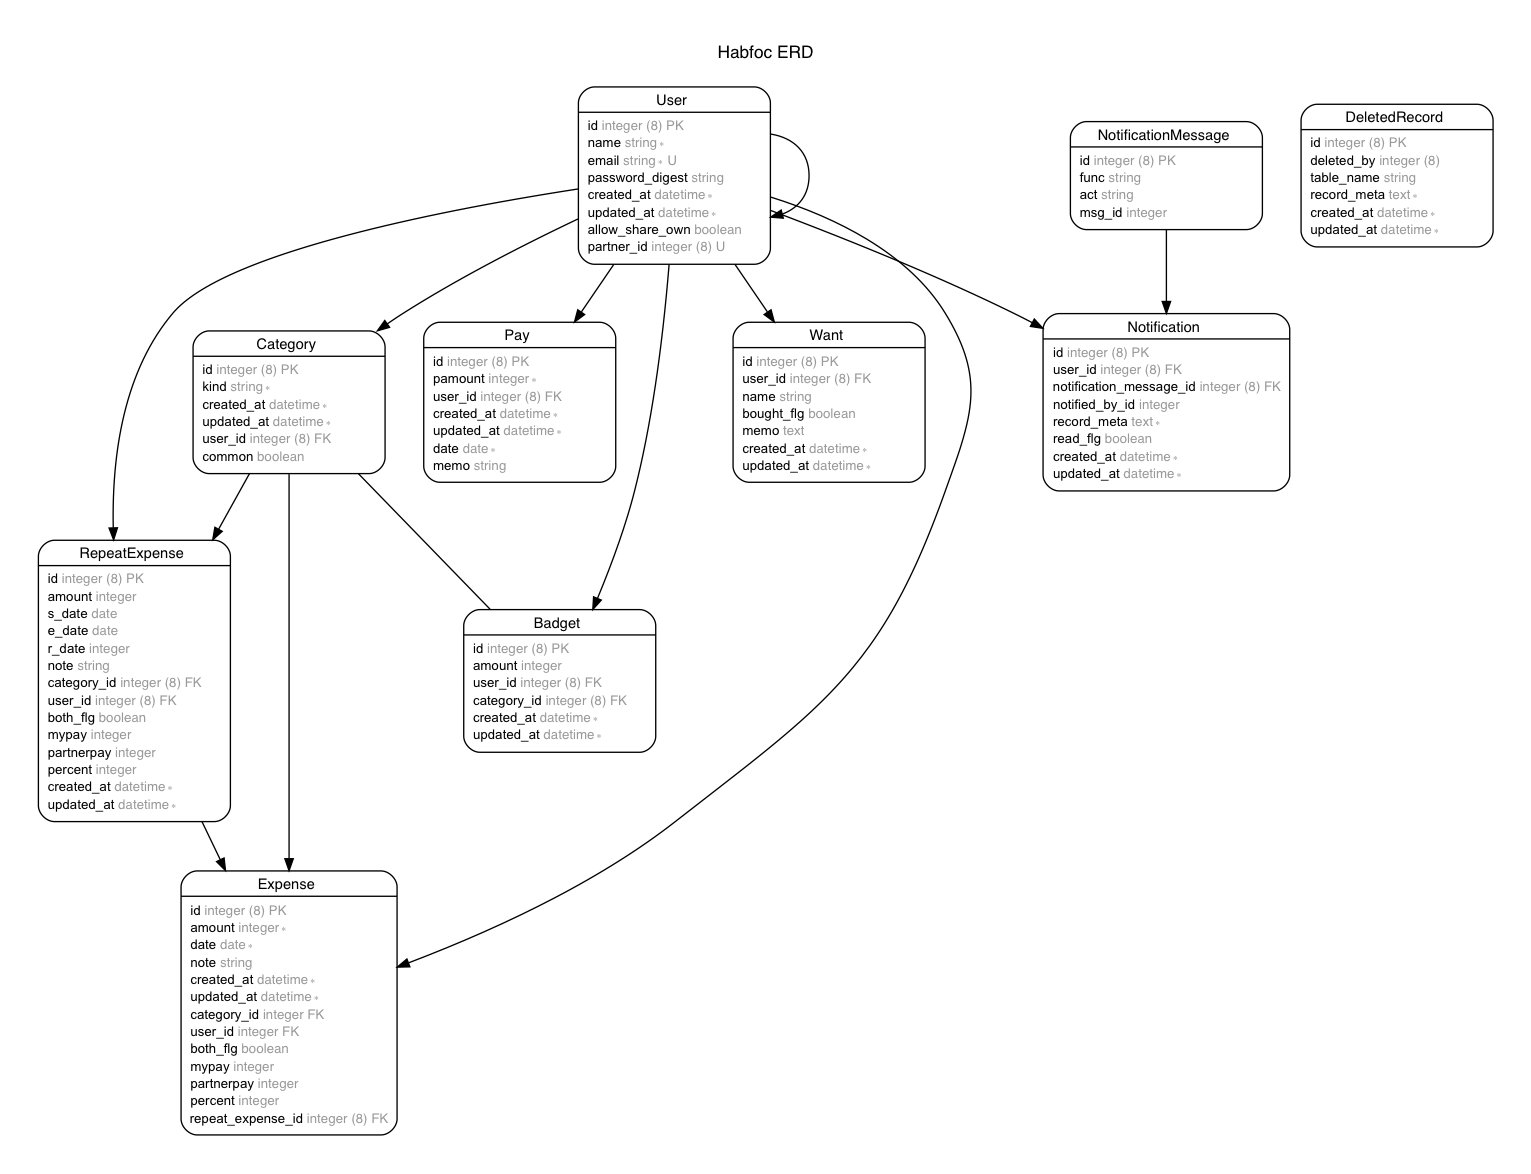
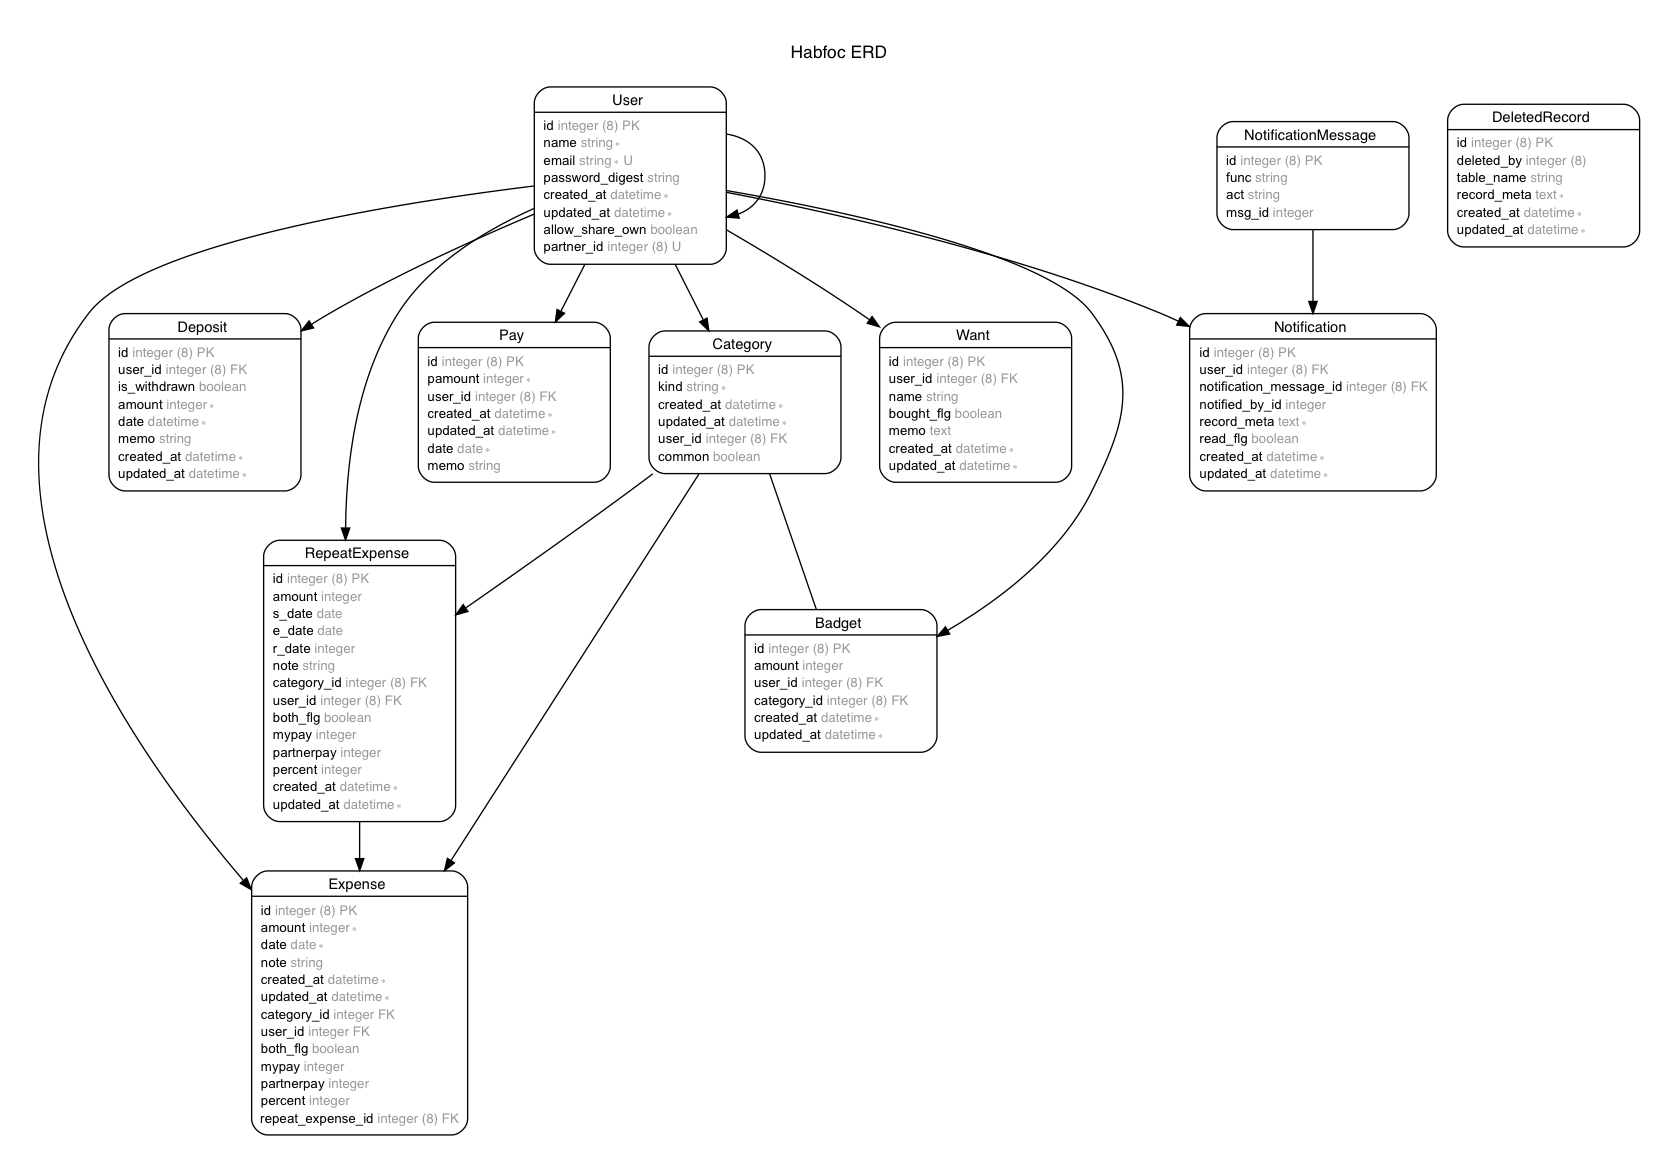
add deposits function

diff --git a/app/controllers/expenses_controller.rb b/app/controllers/expenses_controller.rb
@@ -42,7 +42,7 @@ class ExpensesController < ApplicationController
   def create
     @expense = Expense.new(expense_params)
     if @expense.save
-      redirect_to expenses_path, notice: "出費を保存しました。#{@category.kind}: #{@expense.amount}円"
+      redirect_to expenses_path, notice: "出費を保存しました。#{@category.kind}: #{@expense.amount.to_s(:delimited)}円"
     else
       set_expenses_categories
       render 'index'
@@ -79,41 +79,41 @@ class ExpensesController < ApplicationController
   end
 
   private
-    def mypay_amount
-      whole_payment = params[:expense][:amount].to_i
-      case params[:expense][:percent].to_i
-      when 1
-        mypay = (whole_payment / 2).round
-      when 2
-        mypay = (whole_payment / 3).round
-      when 3
-        mypay = (whole_payment * 2 / 3).round
-      when 4
-        mypay = 0
-      end
-      return mypay
+  def mypay_amount
+    whole_payment = params[:expense][:amount].to_i
+    case params[:expense][:percent].to_i
+    when 1
+      mypay = (whole_payment / 2).round
+    when 2
+      mypay = (whole_payment / 3).round
+    when 3
+      mypay = (whole_payment * 2 / 3).round
+    when 4
+      mypay = 0
     end
+    return mypay
+  end
 
-    def expense_params
-      if params[:expense][:both_flg] == "true" && params[:expense][:percent] == "false"
-        params.require(:expense).permit(:amount, :date, :note, :category_id, :both_flg, :mypay, :partnerpay).merge(user_id: current_user.id, percent: nil, repeat_expense_id: nil)
-      elsif params[:expense][:both_flg] == "true"
-        partnerpay = params[:expense][:amount].to_i - mypay_amount
-        params.require(:expense).permit(:amount, :date, :note, :category_id, :both_flg, :percent).merge(user_id: current_user.id, mypay: mypay_amount, partnerpay: partnerpay, repeat_expense_id: nil)
-      else
-        params.require(:expense).permit(:amount, :date, :note, :category_id, :both_flg, :percent).merge(user_id: current_user.id, repeat_expense_id: nil)
-      end
+  def expense_params
+    if params[:expense][:both_flg] == "true" && params[:expense][:percent] == "false"
+      params.require(:expense).permit(:amount, :date, :note, :category_id, :both_flg, :mypay, :partnerpay).merge(user_id: current_user.id, percent: nil, repeat_expense_id: nil)
+    elsif params[:expense][:both_flg] == "true"
+      partnerpay = params[:expense][:amount].to_i - mypay_amount
+      params.require(:expense).permit(:amount, :date, :note, :category_id, :both_flg, :percent).merge(user_id: current_user.id, mypay: mypay_amount, partnerpay: partnerpay, repeat_expense_id: nil)
+    else
+      params.require(:expense).permit(:amount, :date, :note, :category_id, :both_flg, :percent).merge(user_id: current_user.id, repeat_expense_id: nil)
     end
+  end
 
-    def set_expenses_categories
-      @categories = current_user.categories.or(partner.categories.where(common: true))
-    end
+  def set_expenses_categories
+    @categories = current_user.categories.or(partner.categories.where(common: true))
+  end
 
-    def set_expense
-      @expense = Expense.find(params[:id])
-    end
+  def set_expense
+    @expense = Expense.find(params[:id])
+  end
 
-    def set_category
-      @category = Category.find(params[:expense][:category_id])
-    end
+  def set_category
+    @category = Category.find(params[:expense][:category_id])
+  end
 end

diff --git a/db/schema.rb b/db/schema.rb
@@ -10,7 +10,7 @@
 #
 # It's strongly recommended that you check this file into your version control system.
 
-ActiveRecord::Schema.define(version: 20180818135015) do
+ActiveRecord::Schema.define(version: 20180930033620) do
 
   # These are extensions that must be enabled in order to support this database
   enable_extension "plpgsql"
@@ -41,6 +41,17 @@ ActiveRecord::Schema.define(version: 20180818135015) do
     t.datetime "created_at", null: false
     t.datetime "updated_at", null: false
     t.index ["deleted_by"], name: "index_deleted_records_on_deleted_by"
+  end
+
+  create_table "deposits", force: :cascade do |t|
+    t.bigint "user_id"
+    t.boolean "is_withdrawn", default: false
+    t.integer "amount", null: false
+    t.datetime "date", null: false
+    t.string "memo"
+    t.datetime "created_at", null: false
+    t.datetime "updated_at", null: false
+    t.index ["user_id"], name: "index_deposits_on_user_id"
   end
 
   create_table "expenses", force: :cascade do |t|
@@ -132,6 +143,7 @@ ActiveRecord::Schema.define(version: 20180818135015) do
   add_foreign_key "badgets", "users"
   add_foreign_key "categories", "users"
   add_foreign_key "deleted_records", "users", column: "deleted_by"
+  add_foreign_key "deposits", "users"
   add_foreign_key "expenses", "repeat_expenses"
   add_foreign_key "notifications", "notification_messages"
   add_foreign_key "notifications", "users"

diff --git a/spec/factories/expenses.rb b/spec/factories/expenses.rb
@@ -1,0 +1,38 @@
+# ## Schema Information
+#
+# Table name: `expenses`
+#
+# ### Columns
+#
+# Name                     | Type               | Attributes
+# ------------------------ | ------------------ | ---------------------------
+# **`id`**                 | `bigint(8)`        | `not null, primary key`
+# **`amount`**             | `integer`          |
+# **`both_flg`**           | `boolean`          | `default(FALSE)`
+# **`date`**               | `date`             |
+# **`mypay`**              | `integer`          |
+# **`note`**               | `string`           |
+# **`partnerpay`**         | `integer`          |
+# **`percent`**            | `integer`          |
+# **`created_at`**         | `datetime`         | `not null`
+# **`updated_at`**         | `datetime`         | `not null`
+# **`category_id`**        | `integer`          |
+# **`repeat_expense_id`**  | `bigint(8)`        |
+# **`user_id`**            | `integer`          |
+#
+# ### Indexes
+#
+# * `index_expenses_on_repeat_expense_id`:
+#     * **`repeat_expense_id`**
+#
+# ### Foreign Keys
+#
+# * `fk_rails_...`:
+#     * **`repeat_expense_id => repeat_expenses.id`**
+#
+
+FactoryBot.define do
+  factory :expense do
+    
+  end
+end

diff --git a/app/models/deposit.rb b/app/models/deposit.rb
@@ -1,0 +1,38 @@
+# ## Schema Information
+#
+# Table name: `deposits`
+#
+# ### Columns
+#
+# Name                | Type               | Attributes
+# ------------------- | ------------------ | ---------------------------
+# **`id`**            | `bigint(8)`        | `not null, primary key`
+# **`amount`**        | `integer`          | `not null`
+# **`date`**          | `datetime`         | `not null`
+# **`is_withdrawn`**  | `boolean`          | `default(FALSE)`
+# **`memo`**          | `string`           |
+# **`created_at`**    | `datetime`         | `not null`
+# **`updated_at`**    | `datetime`         | `not null`
+# **`user_id`**       | `bigint(8)`        |
+#
+# ### Indexes
+#
+# * `index_deposits_on_user_id`:
+#     * **`user_id`**
+#
+# ### Foreign Keys
+#
+# * `fk_rails_...`:
+#     * **`user_id => users.id`**
+#
+
+class Deposit < ApplicationRecord
+  belongs_to :user
+  validates_presence_of :amount, :date
+  validates_length_of :amount, maximum: 10
+  validates_length_of :memo, maximum: 100
+
+  def self.total_amount
+    self.where.not(is_withdrawn: true).sum(:amount) - self.where(is_withdrawn: true).sum(:amount)
+  end
+end

diff --git a/app/controllers/deposits_controller.rb b/app/controllers/deposits_controller.rb
@@ -1,0 +1,49 @@
+class DepositsController < ApplicationController
+  before_action :set_deposit, only: [:edit, :update, :destroy]
+
+  def index
+    @deposits = Deposit.all.where(user_id: [current_user.id, partner.id]).order(date: :desc)
+  end
+
+  def new
+    @deposit = current_user.deposits.build
+  end
+
+  def withdraw
+    @deposit = current_user.deposits.build
+  end
+
+  def create
+    @deposit = current_user.deposits.build(deposit_params)
+    if @deposit.save
+      redirect_to deposits_path, notice: "二人の貯金に#{@deposit.amount.to_s(:delimited)}円追加しました。"
+    else
+      render :new
+    end
+  end
+
+  def edit
+  end
+
+  def update
+    if @deposit.update(deposit_params)
+      redirect_to deposits_path, notice: "貯金を更新しました。"
+    else
+      render :edit
+    end
+  end
+
+  def destroy
+    @deposit.destroy
+    redirect_to deposits_path, notice: "貯金を削除しました。"
+  end
+
+  private
+  def deposit_params
+    params.require(:deposit).permit(:is_withdrawn, :amount, :date, :memo)
+  end
+
+  def set_deposit
+    @deposit = Deposit.find(params[:id])
+  end
+end

diff --git a/spec/models/deposit_spec.rb b/spec/models/deposit_spec.rb
@@ -1,0 +1,33 @@
+# ## Schema Information
+#
+# Table name: `deposits`
+#
+# ### Columns
+#
+# Name                | Type               | Attributes
+# ------------------- | ------------------ | ---------------------------
+# **`id`**            | `bigint(8)`        | `not null, primary key`
+# **`amount`**        | `integer`          | `not null`
+# **`date`**          | `datetime`         | `not null`
+# **`is_withdrawn`**  | `boolean`          | `default(FALSE)`
+# **`memo`**          | `string`           |
+# **`created_at`**    | `datetime`         | `not null`
+# **`updated_at`**    | `datetime`         | `not null`
+# **`user_id`**       | `bigint(8)`        |
+#
+# ### Indexes
+#
+# * `index_deposits_on_user_id`:
+#     * **`user_id`**
+#
+# ### Foreign Keys
+#
+# * `fk_rails_...`:
+#     * **`user_id => users.id`**
+#
+
+require 'rails_helper'
+
+RSpec.describe Deposit, type: :model do
+  pending "add some examples to (or delete) #{__FILE__}"
+end

diff --git a/app/models/user.rb b/app/models/user.rb
@@ -38,7 +38,7 @@ class User < ApplicationRecord
   has_secure_password
   validates :password, presence: true, length: { minimum: 6 }
 
-  belongs_to :partner, class_name: 'User', optional: true, foreign_key: { to_table: :users }
+  belongs_to :partner, class_name: 'User', optional: true
   has_many :expenses, dependent: :destroy
   has_many :repeat_expenses, dependent: :destroy
   has_many :badgets, dependent: :destroy
@@ -46,5 +46,6 @@ class User < ApplicationRecord
   has_many :pays, dependent: :destroy
   has_many :wants, dependent: :destroy
   has_many :notifications, dependent: :destroy
+  has_many :deposits, dependent: :destroy
 
 end

diff --git a/config/routes.rb b/config/routes.rb
@@ -1,9 +1,5 @@
 Rails.application.routes.draw do
 
-  get 'settings/index'
-
-  get 'settings/show'
-
   resources :sessions, only: [:new, :create, :destroy]
 
   resources :users do
@@ -45,6 +41,9 @@ Rails.application.routes.draw do
   resources :wants do
     get :change_bought_button, on: :member
   end
+
+  resources :deposits, except: [:show]
+  get 'deposits/withdraw', to: 'deposits#withdraw', as: :withdraw_deposit
 
   # get 'bought_buttons/bought/:id', to: 'bought_buttons#bought', as: :bought
   # get 'bought_buttons/want/:id', to: 'bought_buttons#want', as: :back_to_want

diff --git a/spec/controllers/deposits_controller_spec.rb b/spec/controllers/deposits_controller_spec.rb
@@ -1,0 +1,26 @@
+require 'rails_helper'
+
+RSpec.describe DepositsController, type: :controller do
+
+  describe "GET #index" do
+    it "returns http success" do
+      get :index
+      expect(response).to have_http_status(:success)
+    end
+  end
+
+  describe "GET #new" do
+    it "returns http success" do
+      get :new
+      expect(response).to have_http_status(:success)
+    end
+  end
+
+  describe "GET #edit" do
+    it "returns http success" do
+      get :edit
+      expect(response).to have_http_status(:success)
+    end
+  end
+
+end

diff --git a/app/models/expense.rb b/app/models/expense.rb
@@ -35,6 +35,8 @@ class Expense < ApplicationRecord
   belongs_to :user
   belongs_to :category
   validates :amount, :date, presence: true
+  validates_length_of :amount, maximum: 10
+  validates_length_of :note, maximum: 100
   validate :calculate_amount
   def calculate_amount
     if mypay != nil && partnerpay != nil && mypay + partnerpay != amount

diff --git a/db/migrate/20180930033620_create_deposits.rb b/db/migrate/20180930033620_create_deposits.rb
@@ -1,0 +1,13 @@
+class CreateDeposits < ActiveRecord::Migration[5.1]
+  def change
+    create_table :deposits do |t|
+      t.references :user, foreign_key: true
+      t.boolean :is_withdrawn, default: false
+      t.integer :amount, null: false
+      t.datetime :date, null: false
+      t.string :memo
+
+      t.timestamps
+    end
+  end
+end

diff --git a/app/helpers/deposits_helper.rb b/app/helpers/deposits_helper.rb
@@ -1,0 +1,5 @@
+module DepositsHelper
+  def couples_total_amount
+    action_name == 'withdraw' ? Deposit.all.where(user_id: [current_user.id, partner.id]).total_amount : 9999999999
+  end
+end
